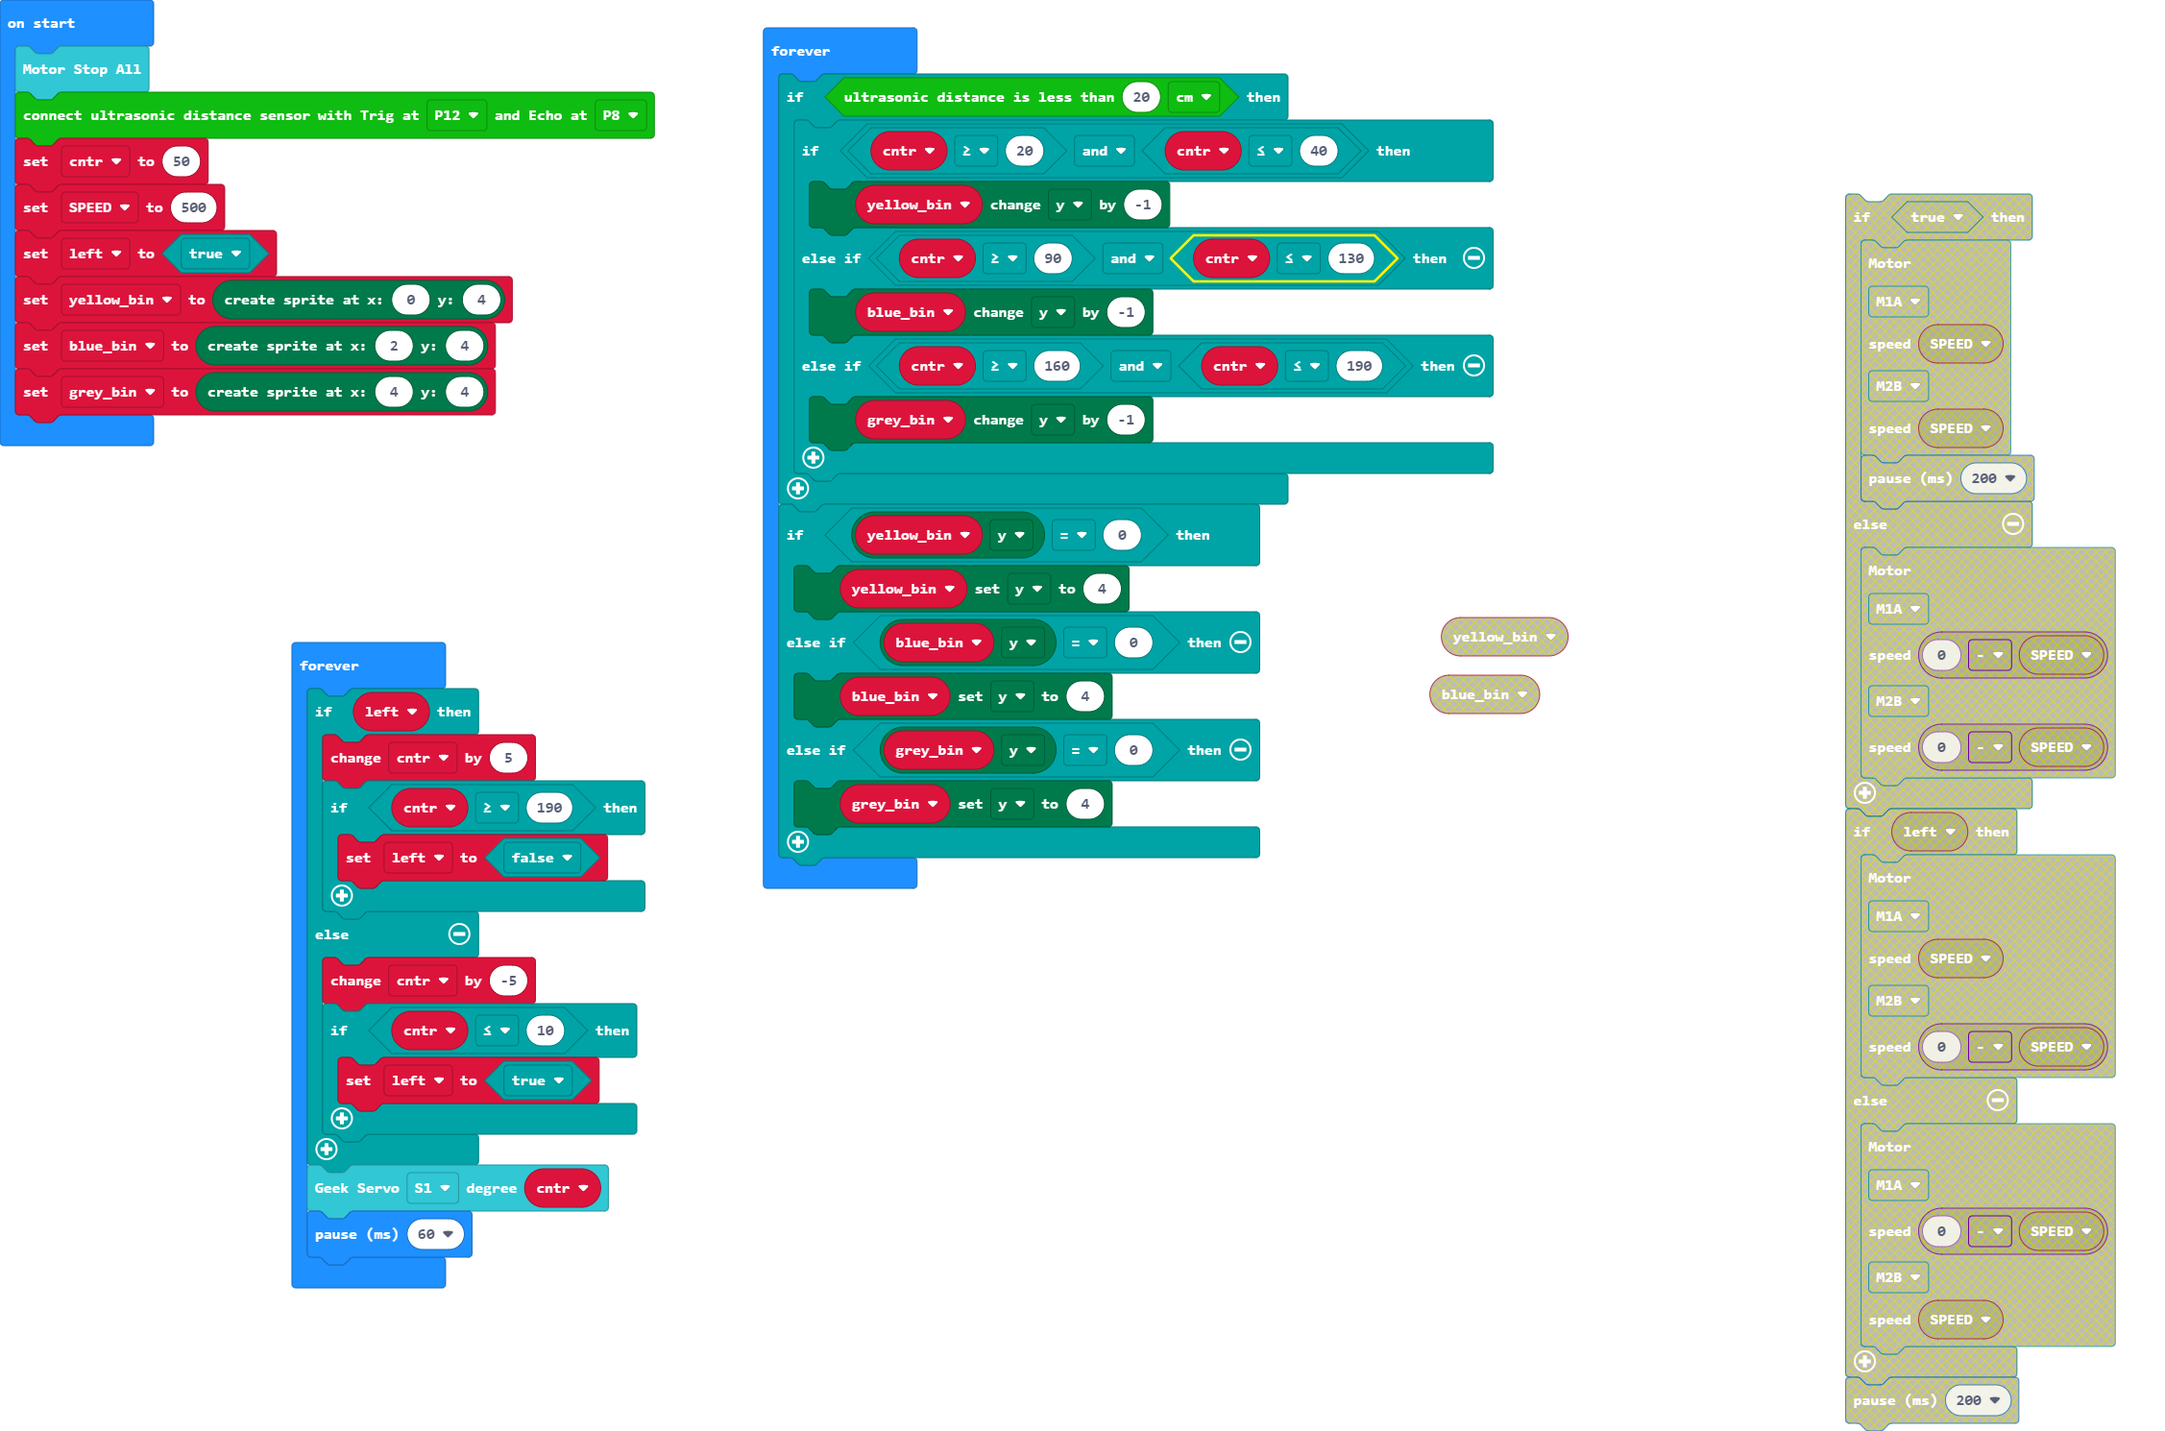
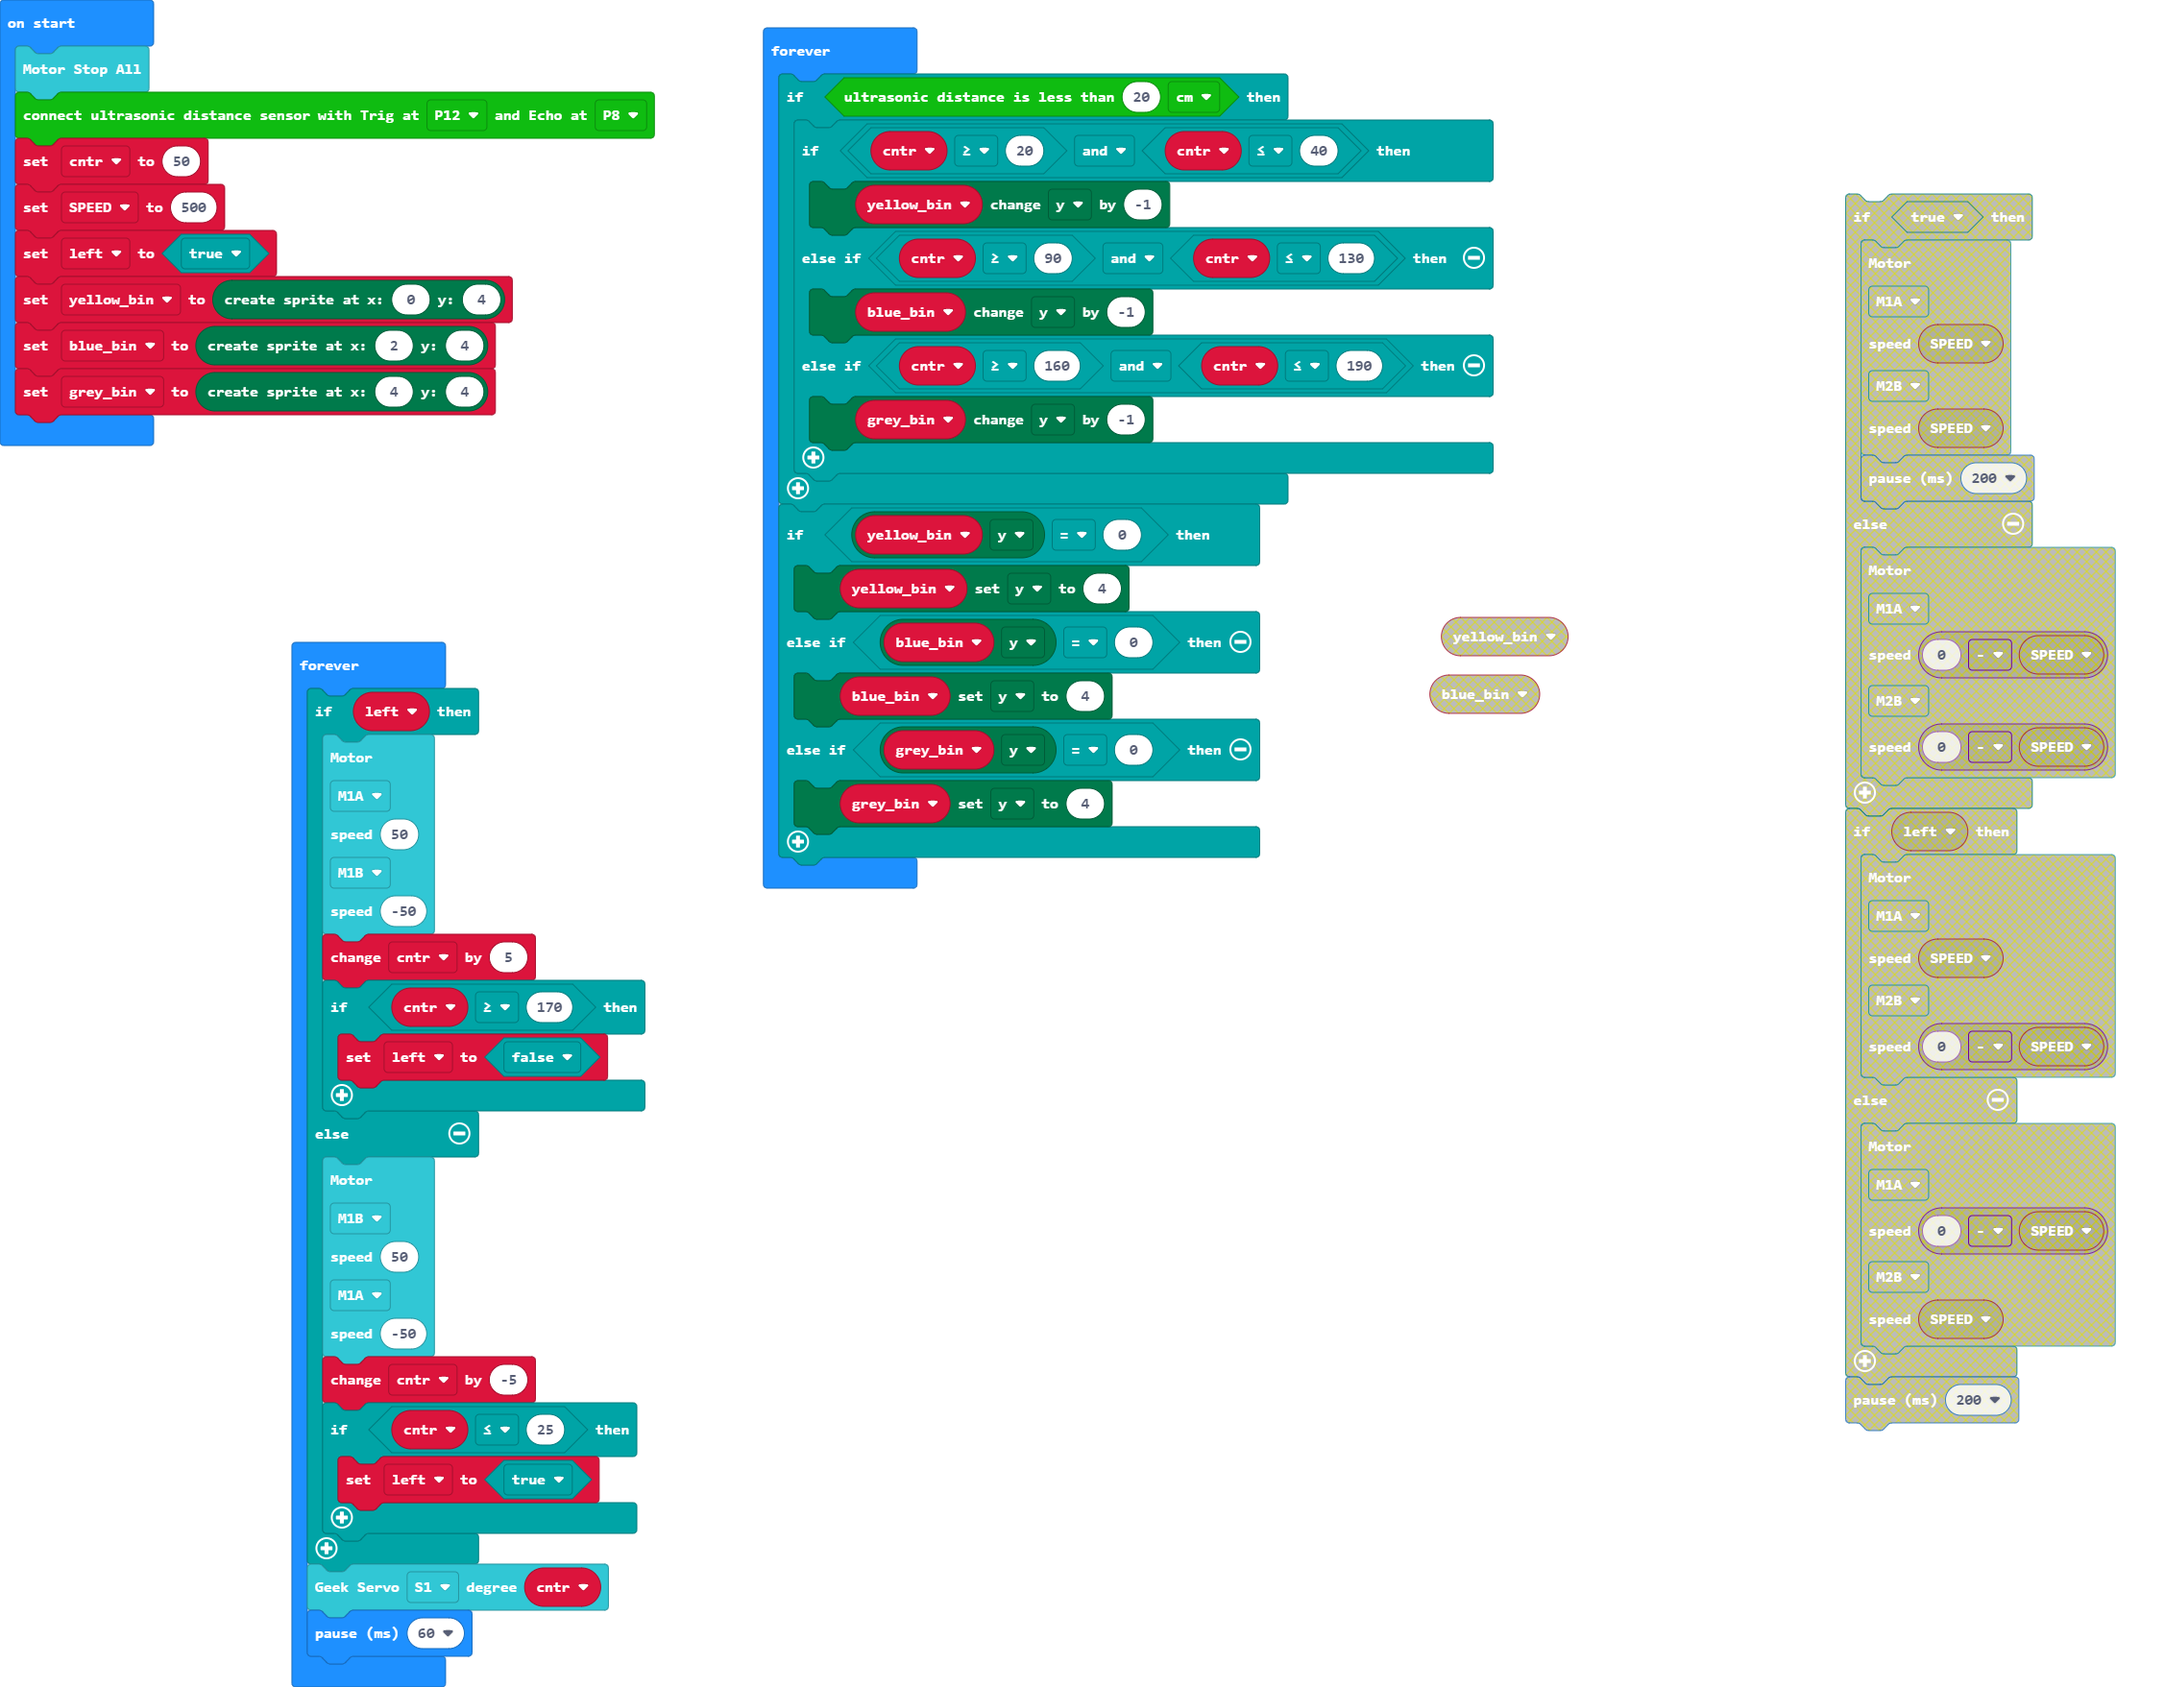
Update main.blocks, main.ts

diff --git a/main.ts b/main.ts
@@ -26,13 +26,25 @@ basic.forever(function () {
 })
 basic.forever(function () {
     if (left) {
+        robotbit.MotorRunDual(
+        robotbit.Motors.M1A,
+        50,
+        robotbit.Motors.M1B,
+        -50
+        )
         cntr += 5
-        if (cntr >= 190) {
+        if (cntr >= 170) {
             left = false
         }
     } else {
+        robotbit.MotorRunDual(
+        robotbit.Motors.M1B,
+        50,
+        robotbit.Motors.M1A,
+        -50
+        )
         cntr += -5
-        if (cntr <= 10) {
+        if (cntr <= 25) {
             left = true
         }
     }
